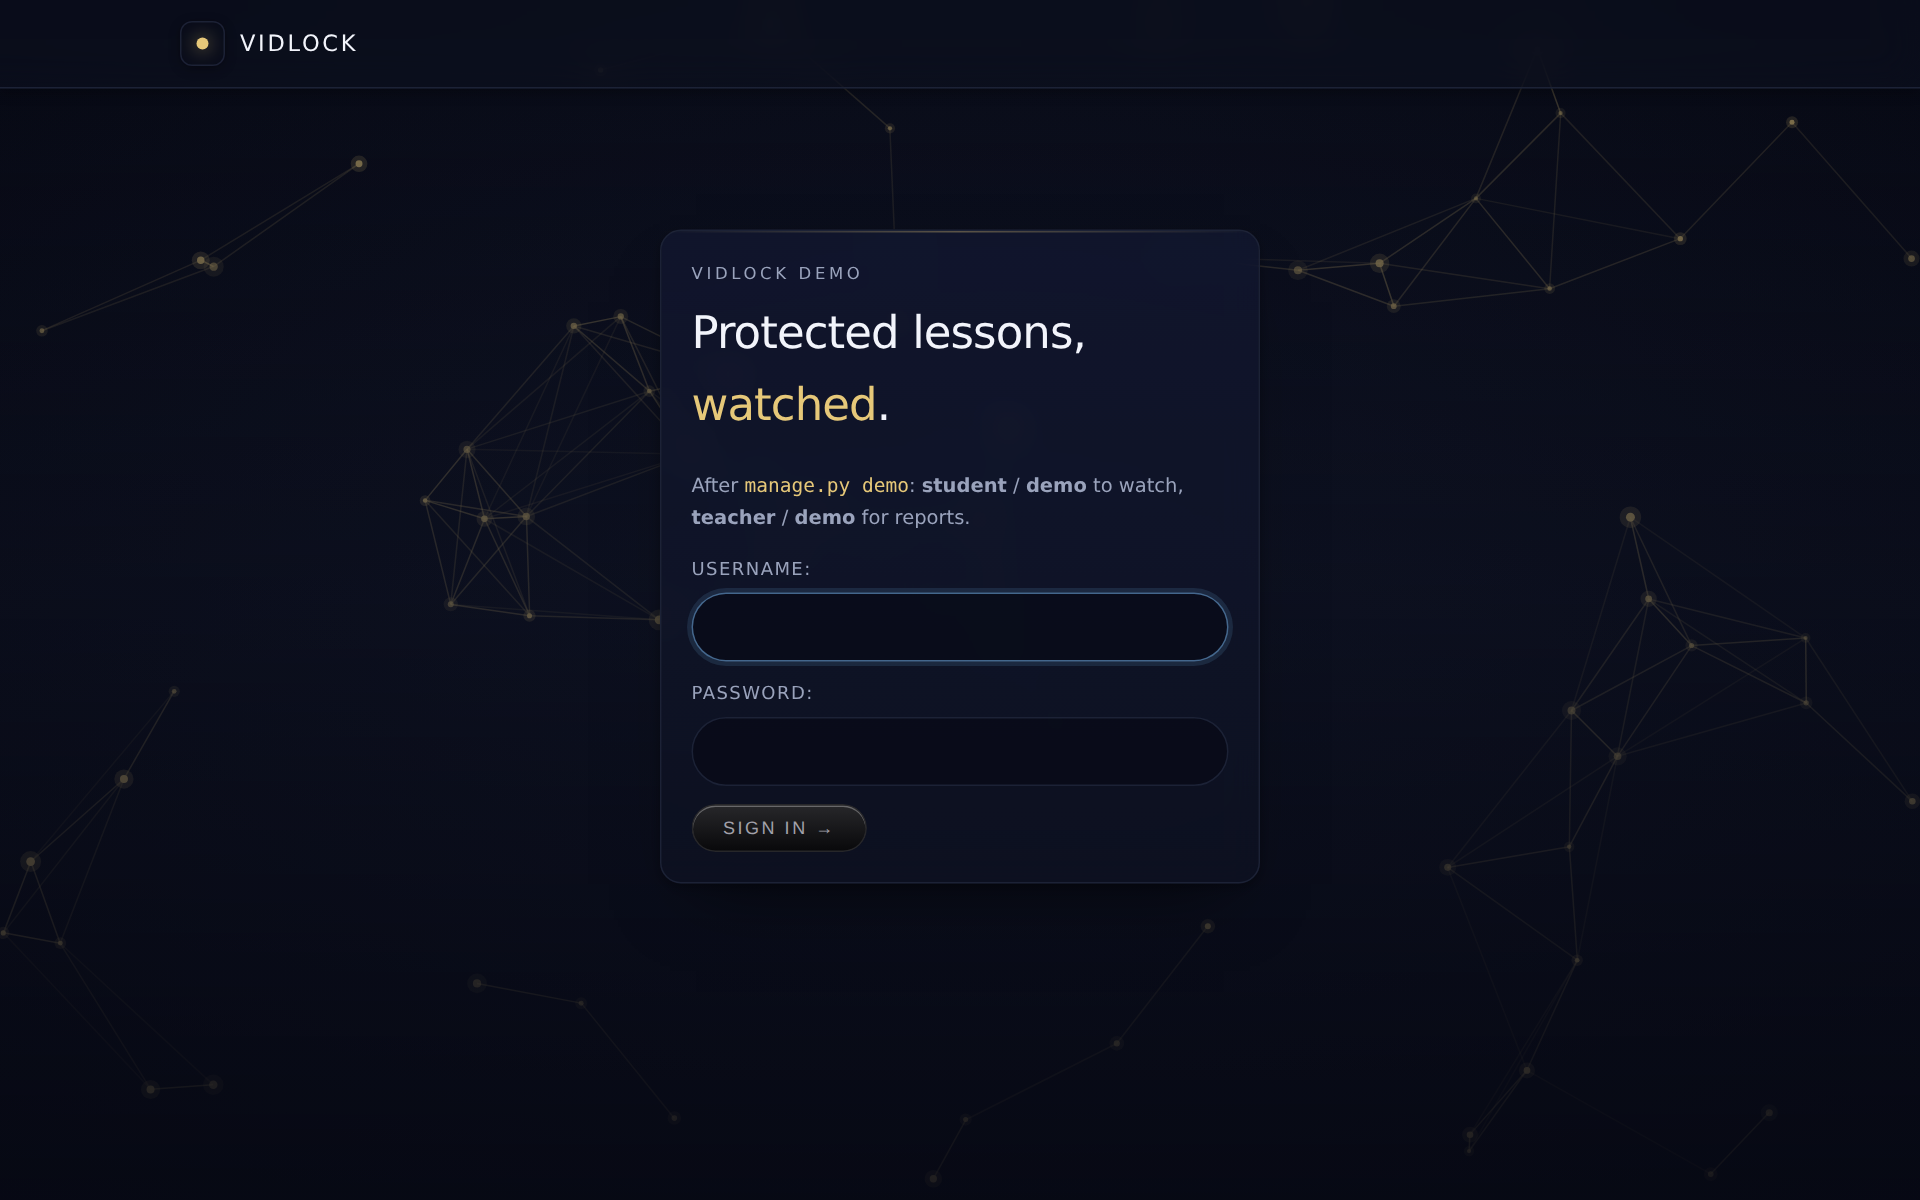
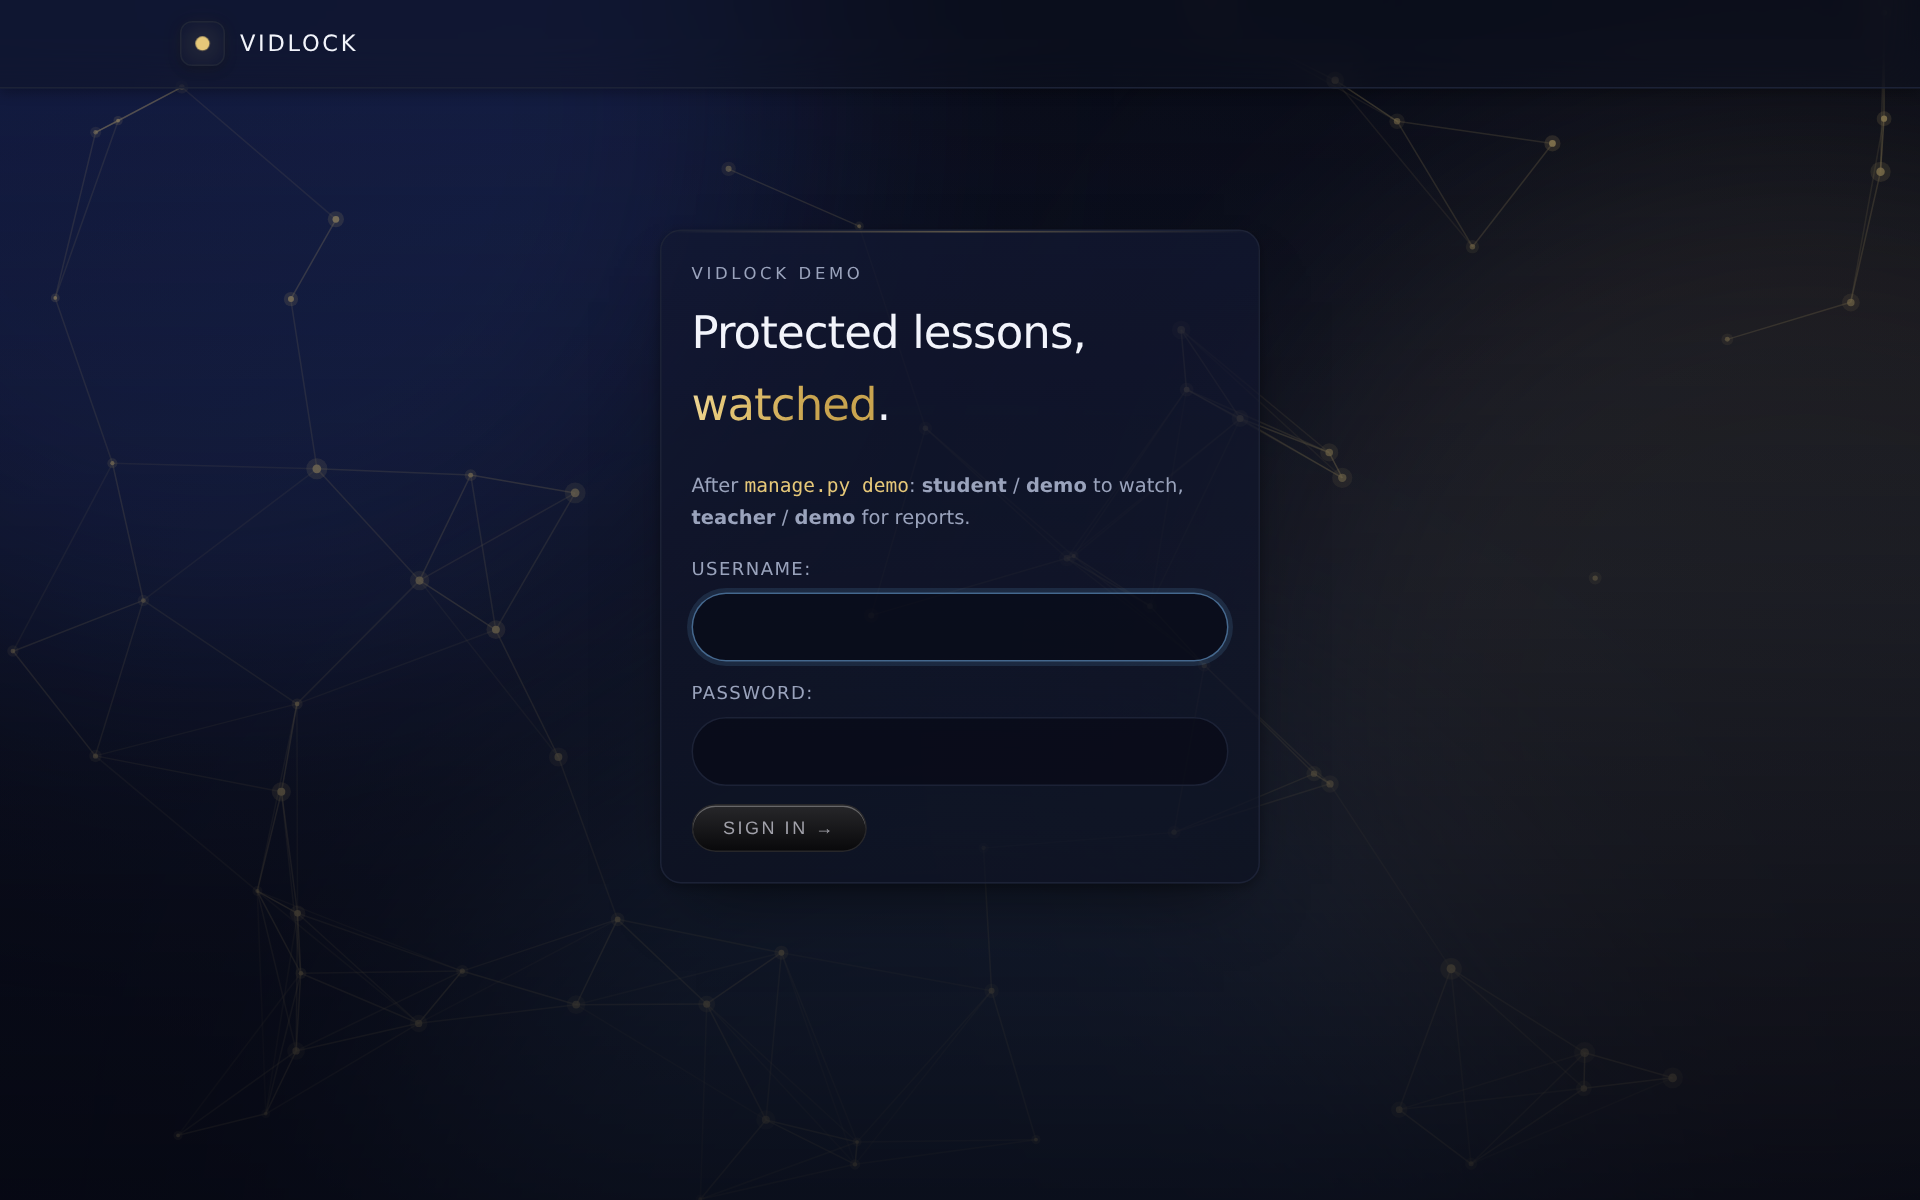
Demo: motion everywhere, and a GIF of it in the README
An aurora drifting behind the constellation, a light that follows the
pointer, stars that reach for it and burst where you click, blocks that
rise in one after another, shimmering gold headlines, card spotlights and
tilt, magnetic buttons with a ripple, a ring of light turning round the
player, report numbers counting up, heatmap bars growing and progress
filling. All of it stops for prefers-reduced-motion.

README images now use repository paths, which GitHub always renders.

diff --git a/example/lessons/static/lessons/theme.css b/example/lessons/static/lessons/theme.css
@@ -162,3 +162,84 @@ ul.messages li { padding: 10px 14px; border: 1px solid rgba(230, 200, 121, 0.3);
 .center { display: grid; place-items: center; min-height: 70vh; }
 @media (max-width: 640px) { .nav-search { display: none; } main { padding-top: 20px; } }
 @media (prefers-reduced-motion: reduce) { .beam::before { animation: none; } .lesson-card, .beam { transition: none; } }
+
+/* ── Motion ────────────────────────────────────────────────────────────────
+ * Everything below moves; all of it stops for prefers-reduced-motion.
+ */
+
+/* Aurora: slow coloured light drifting behind the stars. */
+.aurora { position: fixed; inset: 0; z-index: -3; overflow: hidden; pointer-events: none; }
+.aurora i { position: absolute; width: 60vmax; height: 60vmax; border-radius: 50%; filter: blur(90px); opacity: 0.22; mix-blend-mode: screen; }
+.aurora i:nth-child(1) { background: #3b5bdb; left: -20vmax; top: -25vmax; animation: vl-drift-a 26s ease-in-out infinite alternate; }
+.aurora i:nth-child(2) { background: #e6c879; right: -25vmax; top: 10vh; opacity: 0.12; animation: vl-drift-b 32s ease-in-out infinite alternate; }
+.aurora i:nth-child(3) { background: #7fc4ff; left: 20vw; bottom: -35vmax; opacity: 0.16; animation: vl-drift-c 38s ease-in-out infinite alternate; }
+@keyframes vl-drift-a { to { transform: translate(30vw, 20vh) scale(1.2); } }
+@keyframes vl-drift-b { to { transform: translate(-35vw, 30vh) scale(0.85); } }
+@keyframes vl-drift-c { to { transform: translate(25vw, -30vh) scale(1.15); } }
+
+/* A soft light that follows the pointer. */
+.glow { position: fixed; left: 0; top: 0; width: 520px; height: 520px; margin: -260px 0 0 -260px; border-radius: 50%; pointer-events: none; z-index: -1;
+  background: radial-gradient(circle, rgba(127, 196, 255, 0.10), rgba(230, 200, 121, 0.05) 40%, transparent 70%);
+  transform: translate3d(var(--gx, -999px), var(--gy, -999px), 0); transition: opacity 0.4s; }
+
+/* Entrance: each block rises into place, one after another. */
+.rise { animation: vl-rise 0.9s cubic-bezier(0.2, 0.7, 0.2, 1) both; animation-delay: calc(var(--i, 0) * 90ms); }
+@keyframes vl-rise { from { opacity: 0; transform: translateY(24px) scale(0.985); filter: blur(6px); } to { opacity: 1; transform: none; filter: none; } }
+
+/* Gold words shimmer. */
+h1 em {
+  background: linear-gradient(100deg, var(--gold) 20%, #fff6d8 40%, var(--gold) 60%, #c9a44f 80%);
+  background-size: 250% 100%; -webkit-background-clip: text; background-clip: text; color: transparent;
+  animation: vl-shimmer 5s linear infinite;
+}
+@keyframes vl-shimmer { from { background-position: 100% 0; } to { background-position: -150% 0; } }
+
+/* The brand dot breathes. */
+.brand-mark::before { animation: vl-breathe 2.8s ease-in-out infinite; }
+@keyframes vl-breathe { 50% { transform: scale(1.35); box-shadow: 0 0 22px rgba(230, 200, 121, 0.9); } }
+
+/* Cards: a spotlight under the pointer; lesson cards tilt towards it. */
+.card { background:
+  radial-gradient(420px circle at var(--mx, -999px) var(--my, -999px), rgba(230, 200, 121, 0.09), transparent 45%),
+  linear-gradient(to bottom, rgba(18, 24, 50, 0.72), rgba(14, 18, 34, 0.72)); }
+.lesson-card { transform-style: preserve-3d; transition: transform 0.2s ease-out, border-color 0.25s, box-shadow 0.25s; }
+.lesson-card:hover { transform: perspective(800px) rotateX(var(--rx, 0deg)) rotateY(var(--ry, 0deg)) translateY(-4px); box-shadow: var(--shadow), 0 20px 60px -20px rgba(230, 200, 121, 0.25); }
+
+/* The player sits in a ring of light that turns. */
+@property --vl-angle { syntax: '<angle>'; inherits: false; initial-value: 0deg; }
+.player-shell::after {
+  content: ""; position: absolute; inset: -1px; border-radius: inherit; padding: 1px; pointer-events: none;
+  background: conic-gradient(from var(--vl-angle), transparent 0 70%, var(--sky) 80%, var(--gold) 90%, transparent 100%);
+  -webkit-mask: linear-gradient(#000 0 0) content-box, linear-gradient(#000 0 0); -webkit-mask-composite: xor; mask-composite: exclude;
+  animation: vl-turn 6s linear infinite;
+}
+.player-shell { box-shadow: var(--shadow), 0 0 80px -30px rgba(127, 196, 255, 0.35); }
+@keyframes vl-turn { to { --vl-angle: 360deg; } }
+
+/* Report: bars grow, progress fills, numbers count up (motion.js). */
+.heat div { transform-origin: bottom; animation: vl-grow 1s cubic-bezier(0.2, 0.8, 0.2, 1) both; animation-delay: calc(300ms + var(--i, 0) * 45ms); transition: filter 0.2s; }
+.heat div:hover { filter: brightness(1.35); }
+@keyframes vl-grow { from { transform: scaleY(0); } }
+.bar i { transform-origin: left; animation: vl-fill 1.4s cubic-bezier(0.2, 0.8, 0.2, 1) 0.5s both; }
+@keyframes vl-fill { from { transform: scaleX(0); } }
+.stat { transition: transform 0.25s, border-color 0.25s; }
+.stat:hover { transform: translateY(-3px); border-color: rgba(127, 196, 255, 0.35); }
+
+/* Search hits slide in; the dot of an insight pulses. */
+.hit { animation: vl-slide 0.6s cubic-bezier(0.2, 0.7, 0.2, 1) both; animation-delay: calc(200ms + var(--i, 0) * 80ms); transition: background 0.2s; border-radius: 8px; }
+a.hit:hover { background: rgba(127, 196, 255, 0.05); }
+@keyframes vl-slide { from { opacity: 0; transform: translateX(-16px); } }
+.insight .dot { animation: vl-ping 2.4s ease-out infinite; }
+@keyframes vl-ping { 0% { box-shadow: 0 0 0 0 rgba(127, 196, 255, 0.55); } 70%, 100% { box-shadow: 0 0 0 10px rgba(127, 196, 255, 0); } }
+.insight .dot.gold { animation-name: vl-ping-gold; }
+@keyframes vl-ping-gold { 0% { box-shadow: 0 0 0 0 rgba(230, 200, 121, 0.6); } 70%, 100% { box-shadow: 0 0 0 10px rgba(230, 200, 121, 0); } }
+
+/* Buttons lean towards the pointer (motion.js) and send a ripple when pressed. */
+.beam, .gold-btn { will-change: transform; }
+.ripple { position: absolute; border-radius: 50%; pointer-events: none; z-index: 2; background: rgba(255, 255, 255, 0.35); transform: scale(0); animation: vl-ripple 0.6s ease-out forwards; }
+@keyframes vl-ripple { to { transform: scale(4); opacity: 0; } }
+
+@media (prefers-reduced-motion: reduce) {
+  *, *::before, *::after { animation: none !important; transition: none !important; }
+  .glow, .aurora { display: none; }
+}

diff --git a/example/lessons/static/lessons/motion.js b/example/lessons/static/lessons/motion.js
@@ -1,0 +1,75 @@
+/*
+ * The demo's motion: staggered entrances, a light under the pointer, card
+ * spotlights and tilt, magnetic buttons with a ripple, counting numbers.
+ * Does nothing for prefers-reduced-motion.
+ */
+(function () {
+  'use strict';
+  if (window.matchMedia('(prefers-reduced-motion: reduce)').matches) return;
+  const fine = window.matchMedia('(pointer: fine)').matches;
+
+  // Entrances, one after another.
+  document.querySelectorAll('main > *').forEach(function (el, i) { el.style.setProperty('--i', i); el.classList.add('rise'); });
+  document.querySelectorAll('.heat div, .hit').forEach(function (el) {
+    el.style.setProperty('--i', Array.prototype.indexOf.call(el.parentNode.children, el));
+  });
+
+  // Numbers count up from zero: "27%", "80s", "1".
+  document.querySelectorAll('.stat b').forEach(function (el) {
+    const match = el.textContent.trim().match(/^(\d+(?:\.\d+)?)(.*)$/);
+    if (!match) return;
+    const target = parseFloat(match[1]), suffix = match[2], start = performance.now() + 250, span = 1400;
+    el.textContent = '0' + suffix;
+    (function tick(now) {
+      const t = Math.min(1, Math.max(0, (now - start) / span));
+      el.textContent = Math.round(target * (1 - Math.pow(1 - t, 3))) + suffix;
+      if (t < 1) requestAnimationFrame(tick);
+    })(start);
+  });
+
+  if (!fine) return;
+
+  // The light that follows the pointer.
+  const glow = document.createElement('div');
+  glow.className = 'glow';
+  document.body.appendChild(glow);
+  let gx = -999, gy = -999, tx = -999, ty = -999;
+  document.addEventListener('pointermove', function (e) { tx = e.clientX; ty = e.clientY; });
+  (function follow() {
+    gx += (tx - gx) * 0.12; gy += (ty - gy) * 0.12;
+    glow.style.setProperty('--gx', gx + 'px'); glow.style.setProperty('--gy', gy + 'px');
+    requestAnimationFrame(follow);
+  })();
+
+  // Card spotlight, and tilt for lesson cards.
+  document.querySelectorAll('.card').forEach(function (card) {
+    card.addEventListener('pointermove', function (e) {
+      const r = card.getBoundingClientRect(), x = e.clientX - r.left, y = e.clientY - r.top;
+      card.style.setProperty('--mx', x + 'px'); card.style.setProperty('--my', y + 'px');
+      if (card.classList.contains('lesson-card')) {
+        card.style.setProperty('--ry', ((x / r.width - 0.5) * 10).toFixed(2) + 'deg');
+        card.style.setProperty('--rx', ((0.5 - y / r.height) * 10).toFixed(2) + 'deg');
+      }
+    });
+    card.addEventListener('pointerleave', function () {
+      ['--mx', '--my', '--rx', '--ry'].forEach(function (p) { card.style.removeProperty(p); });
+    });
+  });
+
+  // Magnetic buttons, with a ripple where they are pressed.
+  document.querySelectorAll('.beam, .gold-btn').forEach(function (btn) {
+    btn.addEventListener('pointermove', function (e) {
+      const r = btn.getBoundingClientRect();
+      btn.style.transform = 'translate(' + ((e.clientX - r.left - r.width / 2) * 0.18).toFixed(1) + 'px,' +
+        ((e.clientY - r.top - r.height / 2) * 0.3 - 2).toFixed(1) + 'px)';
+    });
+    btn.addEventListener('pointerleave', function () { btn.style.transform = ''; });
+    btn.addEventListener('pointerdown', function (e) {
+      const r = btn.getBoundingClientRect(), size = Math.max(r.width, r.height), dot = document.createElement('span');
+      dot.className = 'ripple';
+      dot.style.cssText = 'width:' + size + 'px;height:' + size + 'px;left:' + (e.clientX - r.left - size / 2) + 'px;top:' + (e.clientY - r.top - size / 2) + 'px';
+      btn.appendChild(dot);
+      setTimeout(function () { dot.remove(); }, 650);
+    });
+  });
+})();

diff --git a/example/lessons/static/lessons/constellation.js b/example/lessons/static/lessons/constellation.js
@@ -9,7 +9,7 @@
   if (!canvas || window.matchMedia('(prefers-reduced-motion: reduce)').matches) return;
   const ctx = canvas.getContext('2d');
   const LINK = 150;
-  let width = 0, height = 0, nodes = [], running = true;
+  let width = 0, height = 0, nodes = [], sparks = [], running = true;
   const pointer = { x: -1000, y: -1000 };
 
   function resize() {
@@ -45,6 +45,20 @@
         }
       }
     }
+    for (let i = 0; i < nodes.length; i++) {
+      const d = Math.hypot(nodes[i].x - pointer.x, nodes[i].y - pointer.y);
+      if (d < 200) {
+        ctx.strokeStyle = '#7FC4FF';
+        ctx.globalAlpha = (1 - d / 200) * 0.6;
+        ctx.beginPath(); ctx.moveTo(pointer.x, pointer.y); ctx.lineTo(nodes[i].x, nodes[i].y); ctx.stroke();
+      }
+    }
+    sparks = sparks.filter(function (s) { return s.life > 0; });
+    sparks.forEach(function (s) {
+      s.x += s.vx; s.y += s.vy; s.vx *= 0.96; s.vy *= 0.96; s.life -= 0.02;
+      ctx.fillStyle = '#E6C879'; ctx.globalAlpha = Math.max(0, s.life);
+      ctx.beginPath(); ctx.arc(s.x, s.y, 1.6, 0, Math.PI * 2); ctx.fill();
+    });
     const now = Date.now();
     nodes.forEach(function (n) {
       n.x += n.vx; n.y += n.vy;
@@ -67,6 +81,12 @@
 
   window.addEventListener('resize', resize);
   document.addEventListener('mousemove', function (e) { pointer.x = e.clientX; pointer.y = e.clientY; });
+  document.addEventListener('pointerdown', function (e) {
+    for (let i = 0; i < 18; i++) {
+      const a = (Math.PI * 2 * i) / 18, v = 2 + Math.random() * 2.5;
+      sparks.push({ x: e.clientX, y: e.clientY, vx: Math.cos(a) * v, vy: Math.sin(a) * v, life: 1 });
+    }
+  });
   document.addEventListener('mouseleave', function () { pointer.x = pointer.y = -1000; });
   document.addEventListener('visibilitychange', function () {
     running = !document.hidden;

diff --git a/example/lessons/templates/lessons/base.html b/example/lessons/templates/lessons/base.html
@@ -7,6 +7,7 @@
   <link rel="stylesheet" href="{% static 'lessons/theme.css' %}">
 </head>
 <body>
+<div class="aurora"><i></i><i></i><i></i></div>
 <div class="sky"><canvas id="sky"></canvas></div>
 <nav class="nav"><div class="nav-inner">
   <a class="brand" href="{% url 'lessons' %}"><span class="brand-mark"></span>vidlock</a>
@@ -23,5 +24,6 @@
   {% block content %}{% endblock %}
 </main>
 <script src="{% static 'lessons/constellation.js' %}" defer></script>
+<script src="{% static 'lessons/motion.js' %}" defer></script>
 </body>
 </html>

diff --git a/README.md b/README.md
@@ -18,7 +18,7 @@ Viewers watch in hls.js, Safari, iOS, ExoPlayer or AVPlayer.
 [العربية ↓](#بالعربي)
 
 <p align="center">
-  <img src="https://raw.githubusercontent.com/naderyasser/django-vidlock/main/docs/screenshots/watch.png" alt="A sealed lesson playing with the viewer's watermark, and search inside the lesson" width="820">
+  <img src="docs/screenshots/demo.gif" alt="The demo in motion: lessons, a sealed lesson playing under the viewer's watermark, the teacher report" width="820">
 </p>
 
 ---
@@ -123,9 +123,9 @@ no Redis:
 cd example && pip install -e .. && python manage.py migrate && python manage.py demo && python manage.py runserver
 ```
 
-| Lessons | Teacher report | Search (phone) |
+| Watching | Teacher report | Search (phone) |
 | --- | --- | --- |
-| <img src="https://raw.githubusercontent.com/naderyasser/django-vidlock/main/docs/screenshots/lessons.png" alt="Lesson list" width="300"> | <img src="https://raw.githubusercontent.com/naderyasser/django-vidlock/main/docs/screenshots/report.png" alt="Teacher report: viewers, heatmap, insights" width="300"> | <img src="https://raw.githubusercontent.com/naderyasser/django-vidlock/main/docs/screenshots/mobile-search.png" alt="Search inside every lesson on a phone" width="150"> |
+| <img src="docs/screenshots/watch.png" alt="A sealed lesson playing with the watermark, and search inside it" width="300"> | <img src="docs/screenshots/report.png" alt="Teacher report: viewers, heatmap, insights" width="300"> | <img src="docs/screenshots/mobile-search.png" alt="Search inside every lesson on a phone" width="150"> |
 
 ## Requirements
 

diff --git a/example/README.md b/example/README.md
@@ -32,7 +32,7 @@ The demo keeps videos in `example/media/` and serves them through Django
 (`vidlock.contrib.devstorage`), which only works with `DEBUG = True`. A real
 site uses an S3-compatible bucket such as Cloudflare R2; see the main README.
 
-![The demo](../docs/screenshots/watch.png)
+![The demo in motion](../docs/screenshots/demo.gif)
 
 The demo's look (palette, glass cards, the spinning-border button and the
 constellation background in `lessons/static/lessons/`) is adapted from
